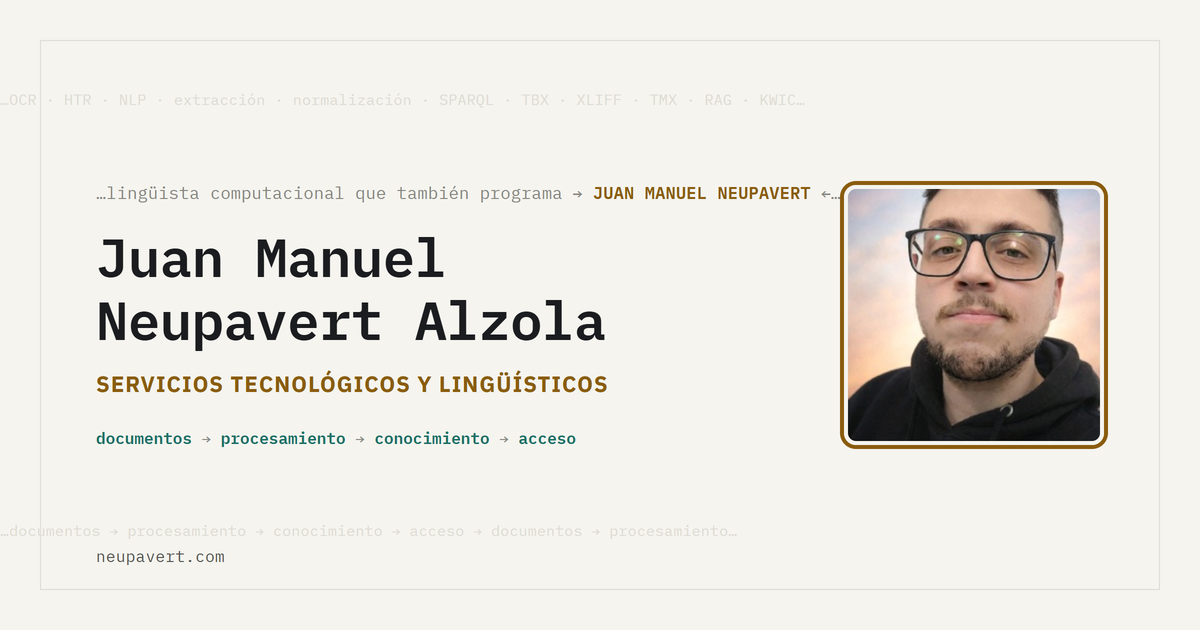
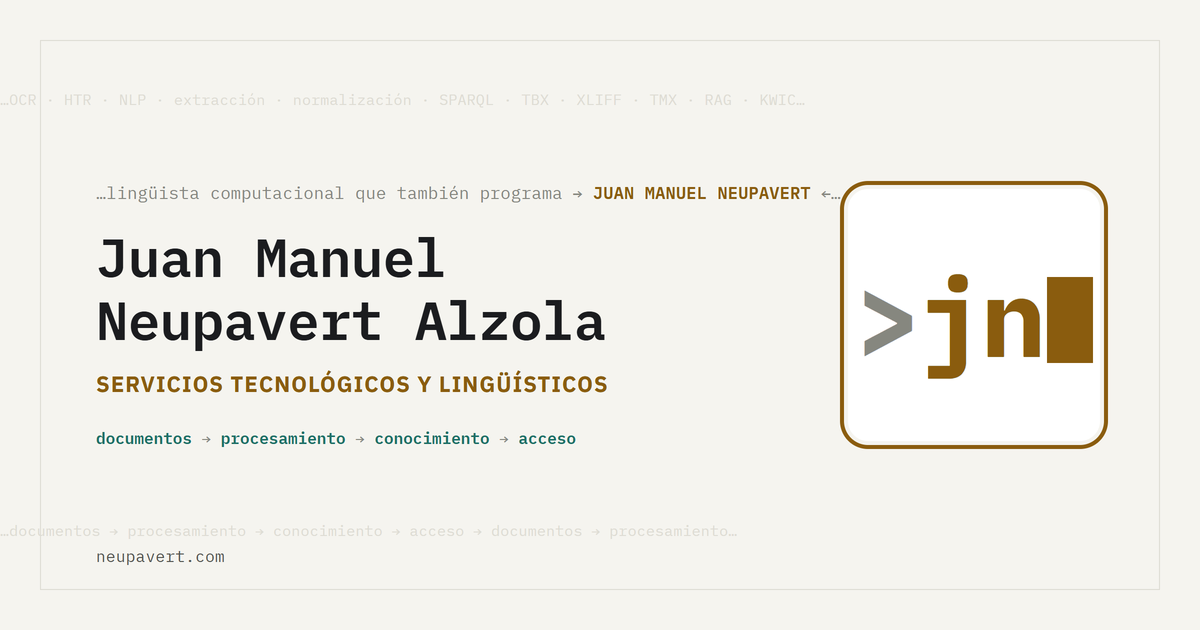
Sustituye la foto de perfil por un monograma >jn_
- Cabecera: la foto se cambia por un monograma tipográfico ">jn_"
  (prompt de terminal, ámbar, cursor parpadeante que respeta
  prefers-reduced-motion) — sin recuadro/marco, como firma suelta.
- Favicon (ico/32px/apple-touch-icon/icon-192) y social card
  regenerados con el mismo monograma en vez de la foto.
- JSON-LD: se retira el campo "image" (apuntaba a avatar.jpg, que ya
  no se usa en ningún sitio de la página).

Changed region(s): [[0.6783, 0.2714, 0.925, 0.7238]]

diff --git a/index.html b/index.html
@@ -39,7 +39,6 @@
   "@type": "Person",
   "name": "Juan Manuel Neupavert Alzola",
   "url": "https://neupavert.com/",
-  "image": "https://neupavert.com/assets/avatar.jpg",
   "email": "mailto:juanmanuel@neupavert.com",
   "jobTitle": "Especialista en servicios tecnológicos y lingüísticos",
   "address": {
@@ -266,6 +265,37 @@
     border: 3px solid var(--bg);
     box-shadow: 0 0 0 3px var(--accent);
   }
+
+  .avatar-mark {
+    flex-shrink: 0;
+    display: flex;
+    align-items: center;
+    justify-content: center;
+    min-width: 136px;
+  }
+  .avatar-mark .mark {
+    font-family: 'IBM Plex Mono', ui-monospace, Menlo, monospace;
+    font-weight: 600;
+    font-size: 4.6rem;
+    letter-spacing: -0.02em;
+  }
+  .avatar-mark .caret { color: var(--dim); }
+  .avatar-mark .letters { color: var(--accent); }
+  .avatar-mark .cursor {
+    display: inline-block;
+    width: 0.5em;
+    height: 0.85em;
+    background: var(--accent);
+    margin-left: 0.05em;
+    vertical-align: -0.1em;
+  }
+  @media (prefers-reduced-motion: no-preference) {
+    .avatar-mark .cursor { animation: avatar-blink 1.1s steps(1) infinite; }
+  }
+  @media (prefers-reduced-motion: reduce) {
+    .avatar-mark .cursor { animation: none; }
+  }
+  @keyframes avatar-blink { 50% { opacity: 0; } }
 
   .header-text { flex: 1; min-width: 0; }
 
@@ -843,7 +873,7 @@
   </nav>
 
   <header class="header" id="inicio">
-    <img class="avatar" src="assets/avatar.jpg" alt="Juan Manuel Neupavert Alzola" width="136" height="136">
+    <div class="avatar-mark" role="img" aria-label="Juan Manuel Neupavert Alzola"><span class="mark" aria-hidden="true"><span class="caret">&gt;</span><span class="letters">jn</span><span class="cursor"></span></span></div>
     <div class="header-text prose">
       <p class="kwic" lang="es">…lingüista computacional que también programa → <span class="kw">JUAN MANUEL NEUPAVERT</span> ← especialista en automatización documental…</p>
       <p class="kwic" lang="en">…computational linguist who also writes code → <span class="kw">JUAN MANUEL NEUPAVERT</span> ← document-automation specialist…</p>
